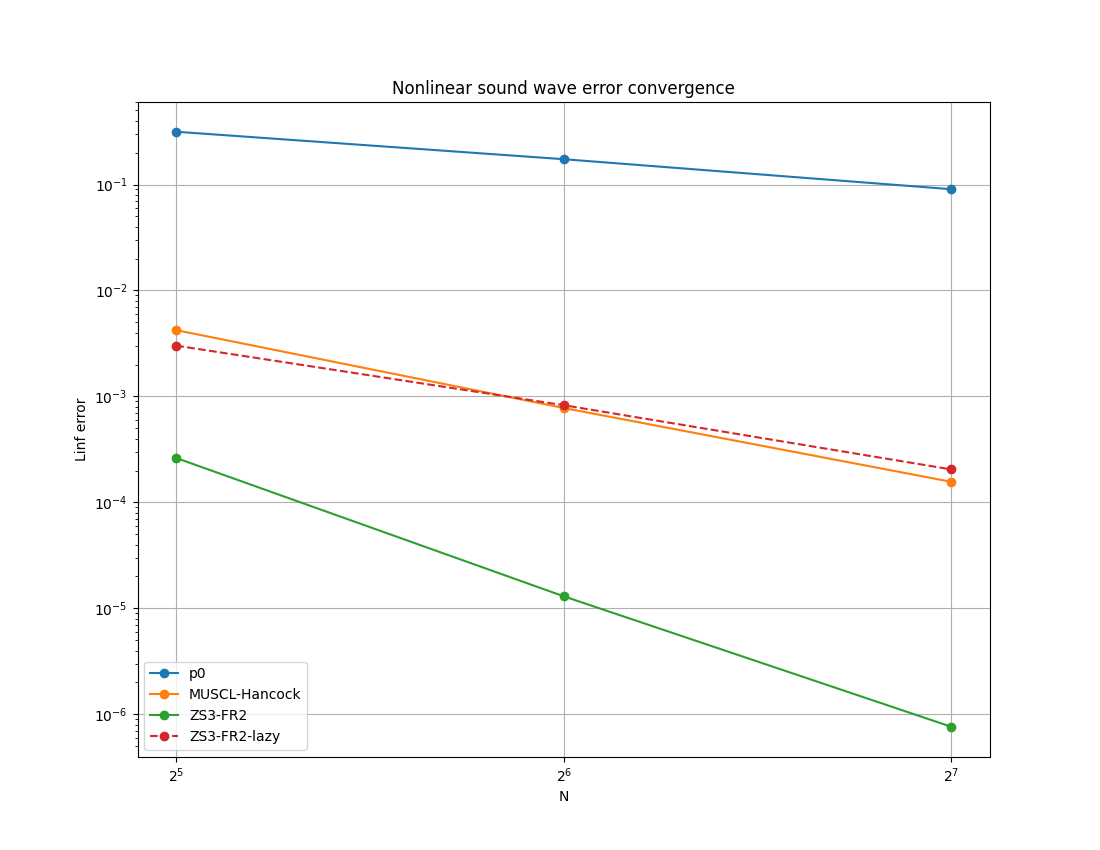
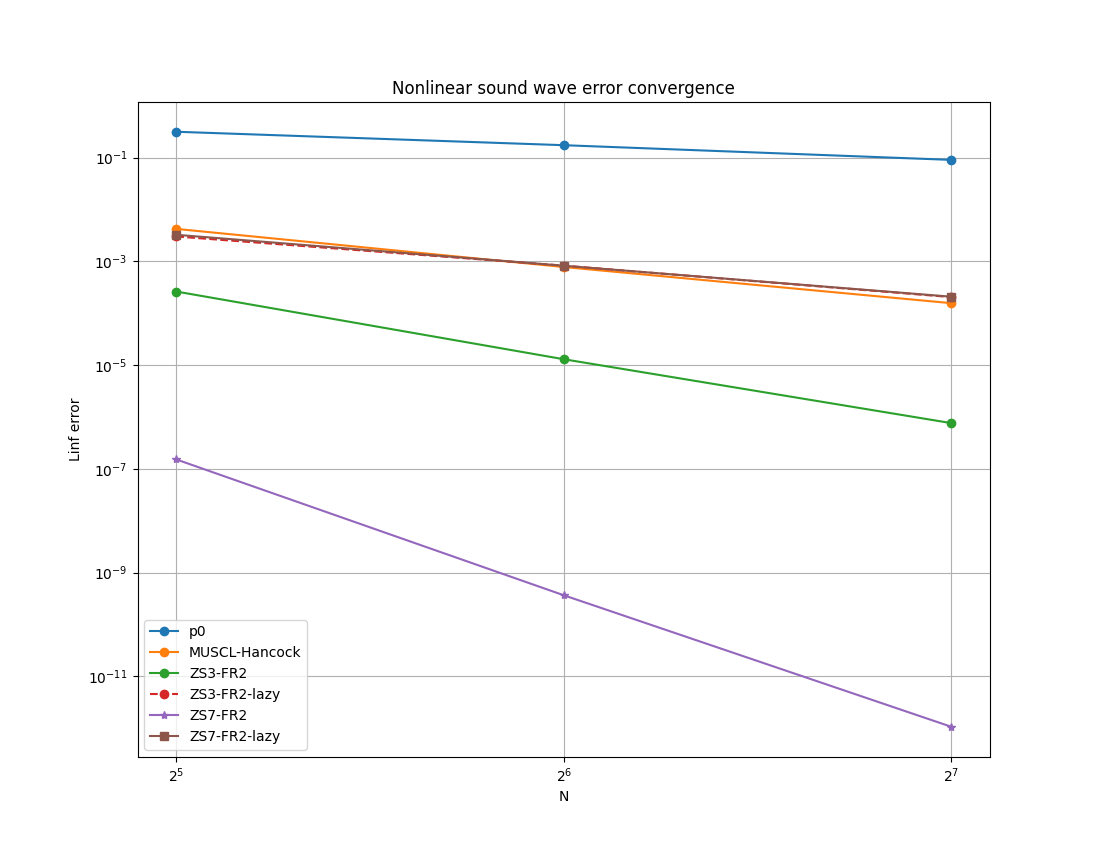
feat: reduce CFL to emulate higher-order time integrators

diff --git a/superfv/finite_volume_solver.py b/superfv/finite_volume_solver.py
@@ -1652,6 +1652,7 @@ class FiniteVolumeSolver(ExplicitODESolver, ABC):
         overwrite: bool = False,
         discard: bool = True,
         q_max: int = 3,
+        reduce_CFL: bool = False,
         muscl_hancock: bool = False,
     ):
         """
@@ -1685,6 +1686,8 @@ class FiniteVolumeSolver(ExplicitODESolver, ABC):
                 - 1: SSPRK2 (2nd order).
                 - 2: SSPRK3 (3rd order).
                 - 3: Classical RK4 (4th order).
+            reduce_CFL: If True, reduceseduce the CFL to emulate a higher-order time
+                integrator matching the order of the spatial discretization.
             muscl_hancock: If True, use a MUSCL-Hancock scheme instead of a
                 Runge-Kutta method. This option overrides `q_max`. The base scheme must
                 be a `musclInterpolationScheme`, otherwise a ValueError is raised.
@@ -1705,6 +1708,8 @@ class FiniteVolumeSolver(ExplicitODESolver, ABC):
             return
         match q:
             case 0:
+                if reduce_CFL:
+                    self.reduce_CFL(0)
                 self.euler(
                     T=T,
                     n=n,
@@ -1717,6 +1722,8 @@ class FiniteVolumeSolver(ExplicitODESolver, ABC):
                     discard=discard,
                 )
             case 1:
+                if reduce_CFL:
+                    self.reduce_CFL(1)
                 self.ssprk2(
                     T=T,
                     n=n,
@@ -1729,6 +1736,8 @@ class FiniteVolumeSolver(ExplicitODESolver, ABC):
                     discard=discard,
                 )
             case 2:
+                if reduce_CFL:
+                    self.reduce_CFL(2)
                 self.ssprk3(
                     T=T,
                     n=n,
@@ -1741,6 +1750,8 @@ class FiniteVolumeSolver(ExplicitODESolver, ABC):
                     discard=discard,
                 )
             case 3:
+                if reduce_CFL:
+                    self.reduce_CFL(3)
                 self.rk4(
                     T=T,
                     n=n,
@@ -1935,6 +1946,26 @@ class FiniteVolumeSolver(ExplicitODESolver, ABC):
                 continue
             node_arr[..., 0] = w_center_for_nodes - slope_arr[..., 0] / 2
             node_arr[..., 1] = w_center_for_nodes + slope_arr[..., 0] / 2
+
+    def reduce_CFL(self, q: int):
+        """
+        Reduce the CFL to emulate a higher-order time integrator matching the order of
+        the spatial discretization.
+
+        Args:
+            q: The polynomial degree of the time integrator being used.
+        """
+        mesh = self.mesh
+        p = self.base_scheme.p
+
+        if p <= q:
+            return
+
+        hx, hy, hz = mesh.hx, mesh.hy, mesh.hz
+        Lx = mesh.xlim[1] - mesh.xlim[0]
+        Ly = mesh.ylim[1] - mesh.ylim[0]
+        Lz = mesh.zlim[1] - mesh.zlim[0]
+        self.CFL *= min(hx / Lx, hy / Ly, hz / Lz) ** ((p - q) / (q + 1))
 
     def plot_1d_slice(self, *args, **kwargs):
         return plot_1d_slice(self, *args, **kwargs)

diff --git a/benchmarks/entropy-wave-convergence/__main__.py b/benchmarks/entropy-wave-convergence/__main__.py
@@ -55,23 +55,23 @@ configs = {
         PAD={"rho": (0, None), "P": (0, None)},
         SED=True,
     ),
-    # "ZS3-FR3": dict(
-    #     riemann_solver="hllc",
-    #     p=3,
-    #     ZS=True,
-    #     flux_recipe=3,
-    #     PAD={"rho": (0, None), "P": (0, None)},
-    #     SED=True,
-    # ),
-    # "ZS3-FR3-lazy": dict(
-    #     riemann_solver="hllc",
-    #     p=3,
-    #     ZS=True,
-    #     flux_recipe=3,
-    #     lazy_primitives=True,
-    #     PAD={"rho": (0, None), "P": (0, None)},
-    #     SED=True,
-    # ),
+    "ZS7-FR2": dict(
+        riemann_solver="hllc",
+        p=7,
+        ZS=True,
+        flux_recipe=2,
+        PAD={"rho": (0, None), "P": (0, None)},
+        SED=True,
+    ),
+    "ZS7-FR2-lazy": dict(
+        riemann_solver="hllc",
+        p=7,
+        ZS=True,
+        flux_recipe=2,
+        lazy_primitives=True,
+        PAD={"rho": (0, None), "P": (0, None)},
+        SED=True,
+    ),
 }
 
 # remove old output
@@ -87,7 +87,7 @@ for N, (name, config) in product(N_LIST, configs.items()):
     # run solver
     sim = EulerSolver(ic=entropy_wave, nx=N, gamma=gamma, **config)
     try:
-        sim.run(T, muscl_hancock=config.get("MUSCL", False))
+        sim.run(T, reduce_CFL=True, muscl_hancock=config.get("MUSCL", False))
     except RuntimeError as e:
         print(f"  Failed: {e}")
         continue
